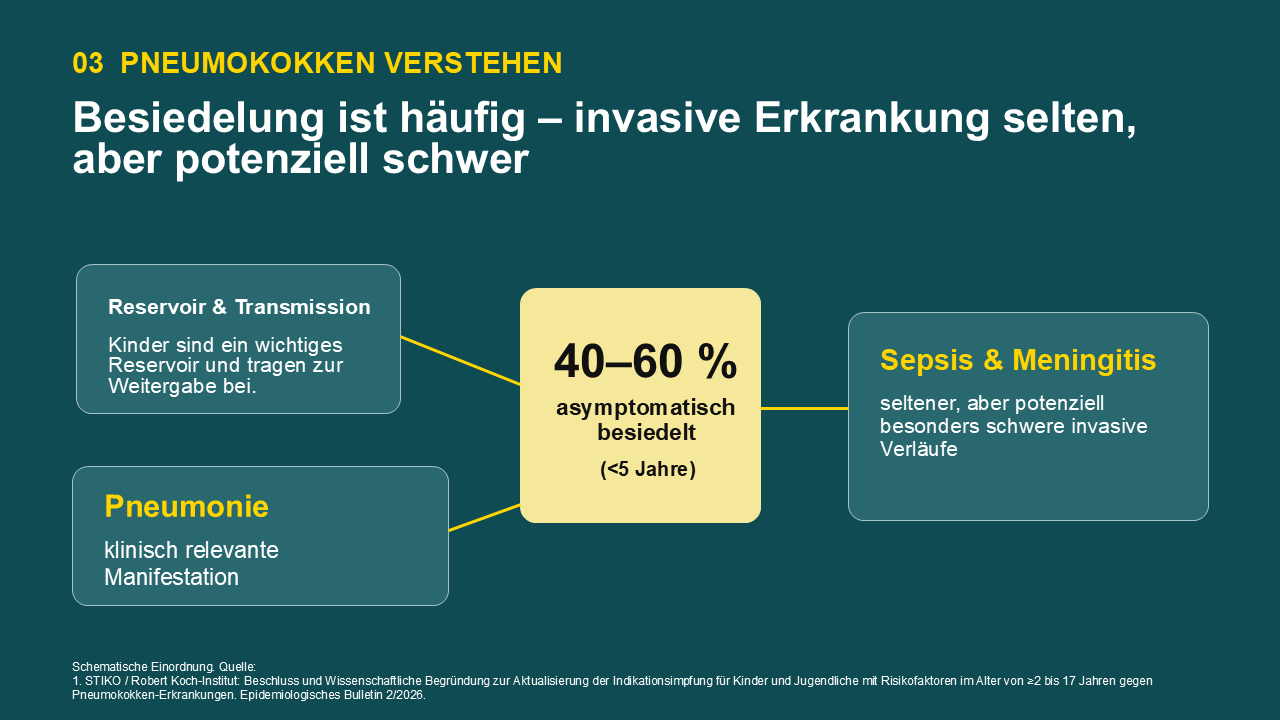
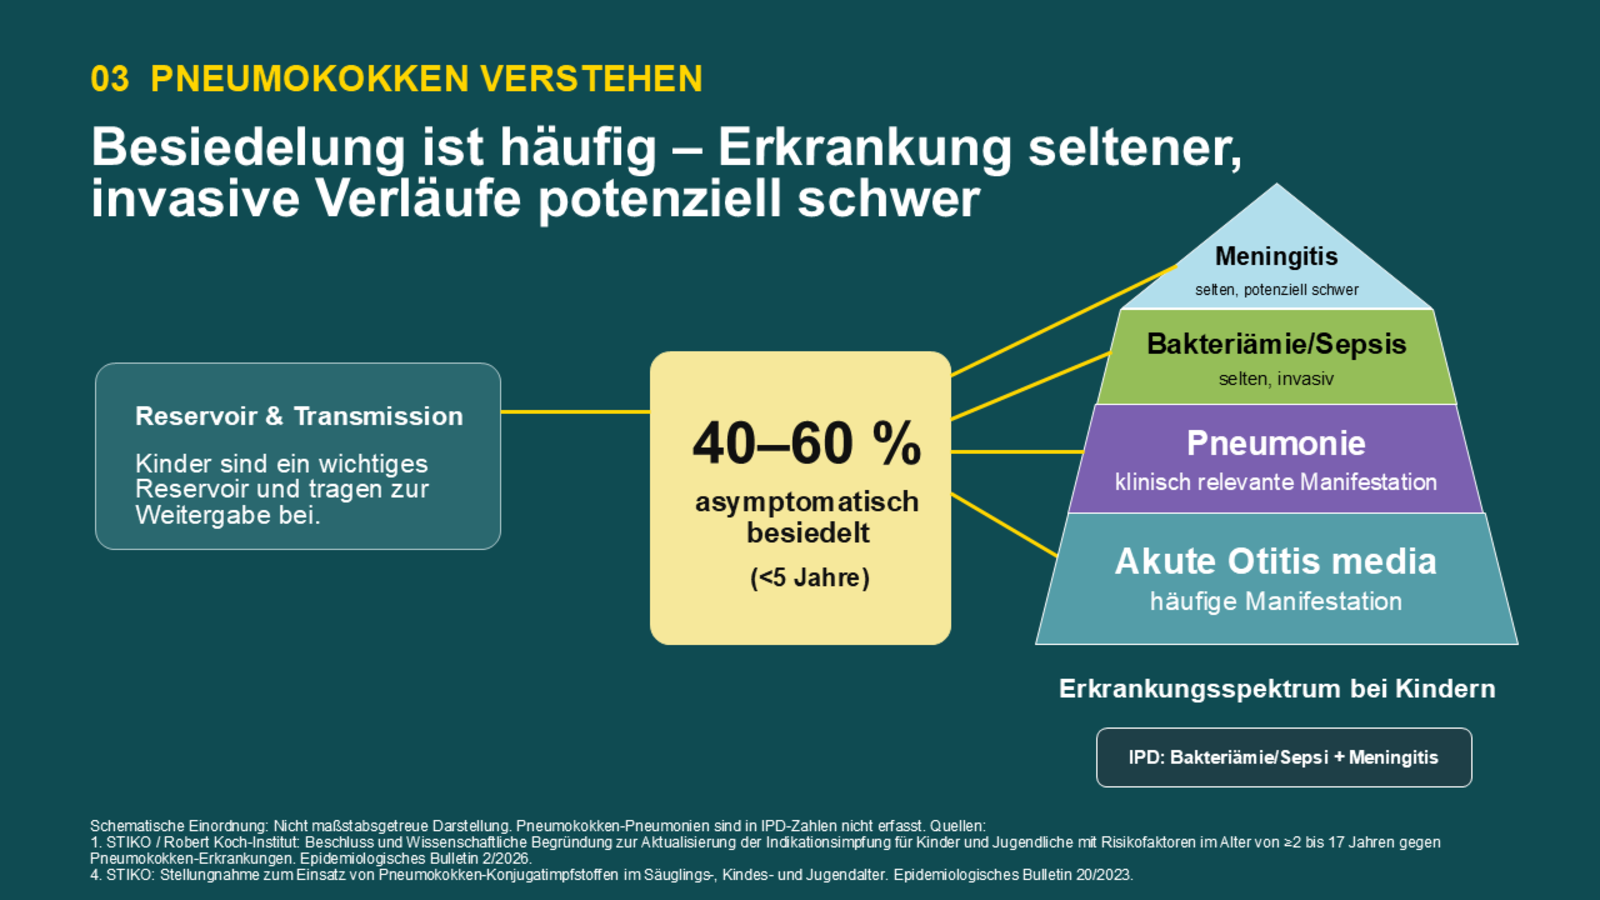
2026-09-18_pneumokokken-update-kinder_v0.31_Pfizer

diff --git a/src/project.js b/src/project.js
@@ -206,23 +206,23 @@ export const project = {
       number: "03",
       nav: "Pneumokokken verstehen",
       kicker: "Pneumokokken verstehen",
-      title: "Besiedelung ist häufig – invasive Erkrankung selten, aber potenziell schwer",
-      subtitle: "Warum Kinder für Transmission und Prävention eine zentrale Rolle spielen.",
+      title: "Besiedelung ist häufig – Erkrankung seltener, invasive Verläufe potenziell schwer",
+      subtitle: "Warum Kinder für Transmission, Erkrankungsspektrum und Prävention eine zentrale Rolle spielen.",
       background: "/assets/backgrounds/03_besiedelung_pneumokokken-bg.jpg",
       focal: "left center",
       inlineImage: "/assets/images/03_reservoir_transmission.png",
-      inlineImageAlt: "Arbeitsgrafik zu Besiedelung, Transmission sowie unterschiedlicher Häufigkeit und Schwere klinischer Pneumokokken-Erkrankungen",
+      inlineImageAlt: "Arbeitsgrafik zu Reservoir, asymptomatischer Besiedelung und dem Krankheitsspektrum von Otitis media bis zu invasiven Pneumokokken-Erkrankungen",
       tone: "dark",
       align: "right",
       kind: "standard",
       long: true,
       zoomable: true,
       paragraphs: [
-        "Streptococcus pneumoniae kann den oberen Respirationstrakt asymptomatisch besiedeln. Kinder unter 5 Jahren sind das wichtigste Reservoir; durchschnittlich sind 40–60 % dieser Altersgruppe kolonisiert. Damit spielen Kinder eine zentrale Rolle bei der Transmission. [1]",
-        "Aus der Kolonisation können unter anderem Pneumonien sowie invasive Erkrankungen wie Sepsis und Meningitis entstehen. In Krankenhausdiagnosedaten für Kinder <5 Jahren entfielen 2012–2019 62 % der erfassten pneumokokkenbedingten Hospitalisierungen auf Pneumonien; zugleich bilden diese Daten die Gesamtfallzahl nur unvollständig ab. [4]",
-        "Säuglinge und Kleinkinder sowie Kinder mit definierten Risikofaktoren sind für invasive Pneumokokken-Erkrankungen besonders relevant. Präventionsentscheidungen orientieren sich daher an Alter, Impfstatus und individuellem Risikoprofil. [1,2]"
+        "Streptococcus pneumoniae kann den oberen Respirationstrakt asymptomatisch besiedeln. Kinder unter 5 Jahren sind das wichtigste Reservoir; 40–60 % dieser Altersgruppe sind kolonisiert und tragen damit wesentlich zur Transmission bei. [1]",
+        "Das klinische Spektrum reicht von häufigen nichtinvasiven Erkrankungen wie akuter Otitis media und Pneumonie bis zu selteneren, aber potenziell besonders schweren invasiven Pneumokokken-Erkrankungen (Invasive Pneumokokken Disease, IPD) wie Bakteriämie/Sepsis und Meningitis. [1]",
+        "Pneumokokken-Pneumonien sind in IPD-Zahlen nicht erfasst; zugleich ist die tatsächliche Krankheitslast nur unvollständig abbildbar. Präventionsentscheidungen orientieren sich daher an Alter, Impfstatus und individuellem Risikoprofil. [1,2,4]"
       ],
-      quote: "Alter, Impfstatus und Risikoprofil sind zentrale Determinanten der Pneumokokken-Impfstrategie. [1,2]"
+      quote: "Von der asymptomatischen Besiedelung bis zur invasiven Erkrankung reicht ein breites klinisches Spektrum – entscheidend sind Prävention und Risikoorientierung. [1,2,4]"
     },
     {
       id: "serotypen-im-wandel",

diff --git a/UPDATE-2026-09-18-v0.30_Kapitel-03-Krankheitspyramide.md b/UPDATE-2026-09-18-v0.30_Kapitel-03-Krankheitspyramide.md
@@ -1,0 +1,8 @@
+# Update v0.30 – Kapitel 03 / Krankheitspyramide
+
+- Kapitel 03 inhaltlich weiterentwickelt.
+- Die bisherige Grafik `03_reservoir_transmission.png` wurde durch eine neue Visualisierung ersetzt.
+- Neue Inhalte: Reservoir & Transmission, 40–60 % asymptomatische Besiedelung (<5 Jahre) sowie Krankheitsspektrum bei Kindern mit akuter Otitis media, Pneumonie, Bakteriämie/Sepsis und Meningitis.
+- Hinweis ergänzt, dass Pneumokokken-Pneumonien nicht in IPD-Zahlen erfasst sind.
+- `src/project.js` für Kapitel 03 textlich angepasst.
+- Aktualisierte PowerPoint-Grafikdatei separat als `Pneumokokken_Grafiken_bearbeitbar_v0.30.pptx` gespeichert und zusätzlich im Projektordner unter `docs/` hinterlegt.

diff --git a/UPDATE-2026-09-18-v0.31_Kapitel-03-Feinkorrektur.md b/UPDATE-2026-09-18-v0.31_Kapitel-03-Feinkorrektur.md
@@ -1,0 +1,11 @@
+# Update 2026-09-18 · v0.31 · Kapitel 03 Feinkorrektur
+
+## Umgesetzt
+- Die Inline-Grafik in Kapitel 03 (`03_reservoir_transmission.png`) wurde durch die vom Nutzer nachbearbeitete PNG-Version ersetzt.
+- Grundlage ist die übermittelte PowerPoint-Datei `Pneumokokken_Grafiken_bearbeitbar_v0.30_korr.pptx`.
+- Die aktualisierte PowerPoint wurde zusätzlich im Ordner `docs/` abgelegt.
+
+## Betroffene Dateien
+- `public/assets/images/03_reservoir_transmission.png`
+- `docs/Pneumokokken_Grafiken_bearbeitbar_v0.31.pptx`
+- `docs/Pneumokokken_Grafiken_bearbeitbar_v0.30_korr.pptx`
